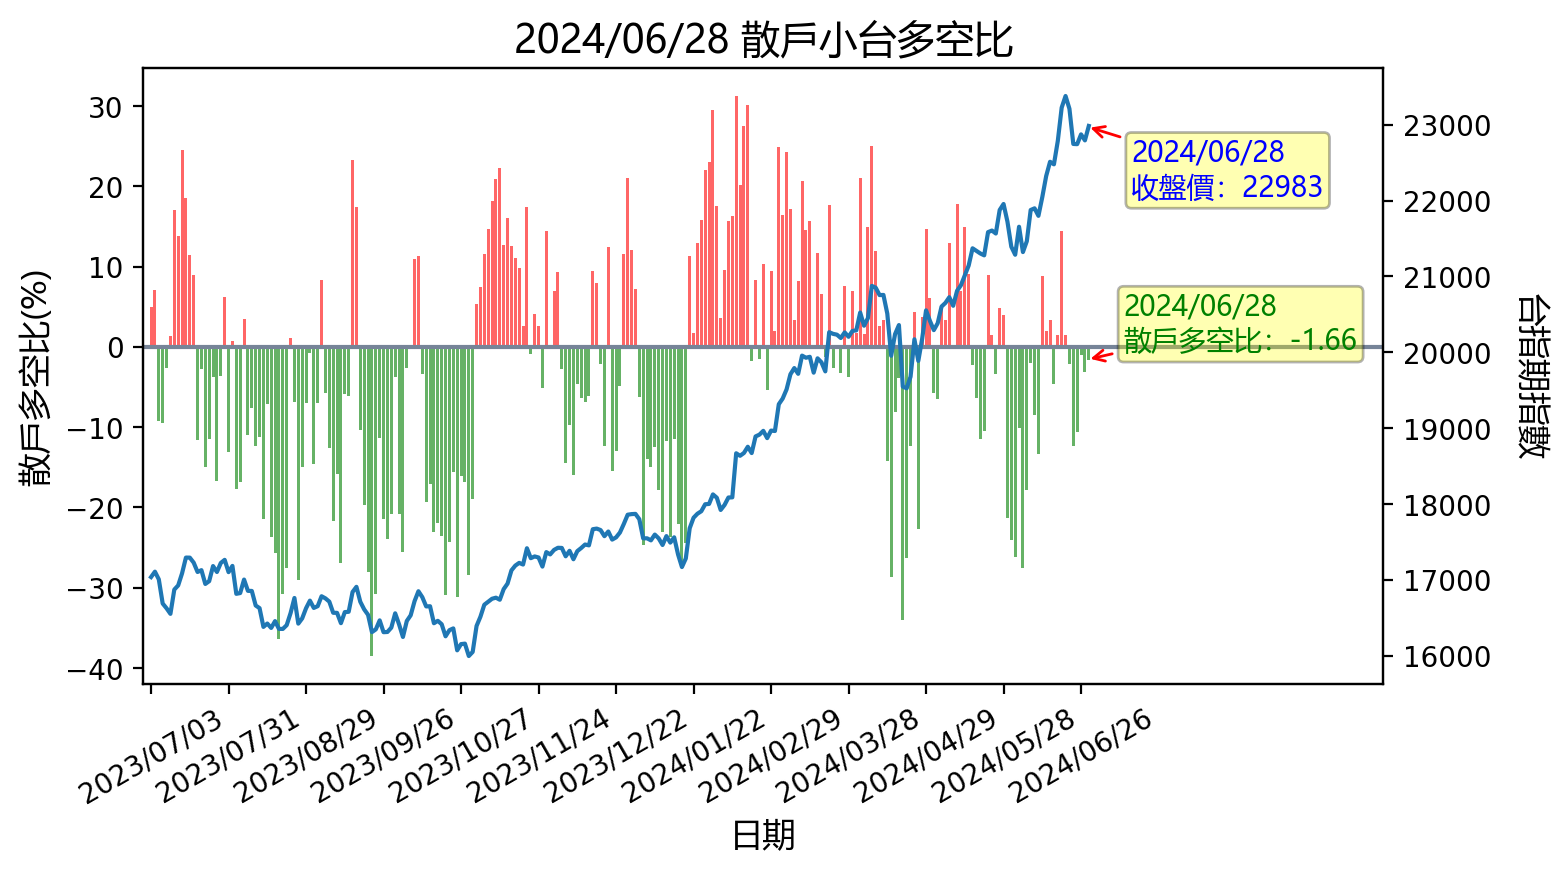
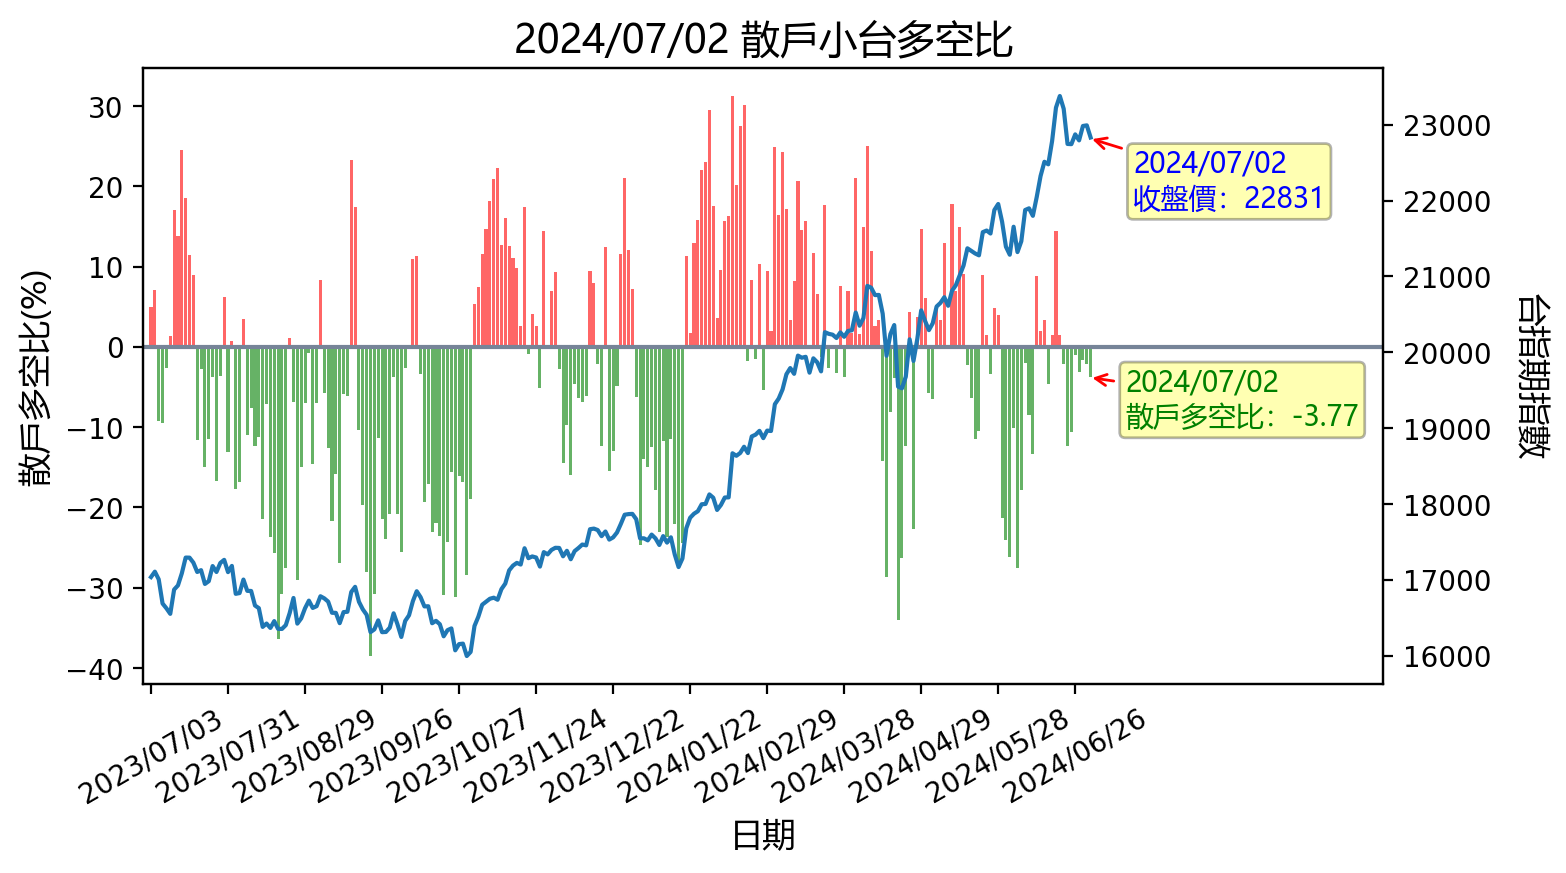
更新時間: Wed Jul  3 01:24:16 CST 2024

diff --git a/README.md b/README.md
@@ -1,9 +1,9 @@
-## 20240702 台指期「預估換倉成本」
+## 20240703 台指期「預估換倉成本」
 ![](images/txfcost.png)
 
-## 20240702 台指期「散戶小台多空比」
+## 20240703 台指期「散戶小台多空比」
 ![](images/bbiri.png)
 
-## 20240702 台指選擇權「Put/Call Ratios」
+## 20240703 台指選擇權「Put/Call Ratios」
 ![](images/pcratio.png)
 
